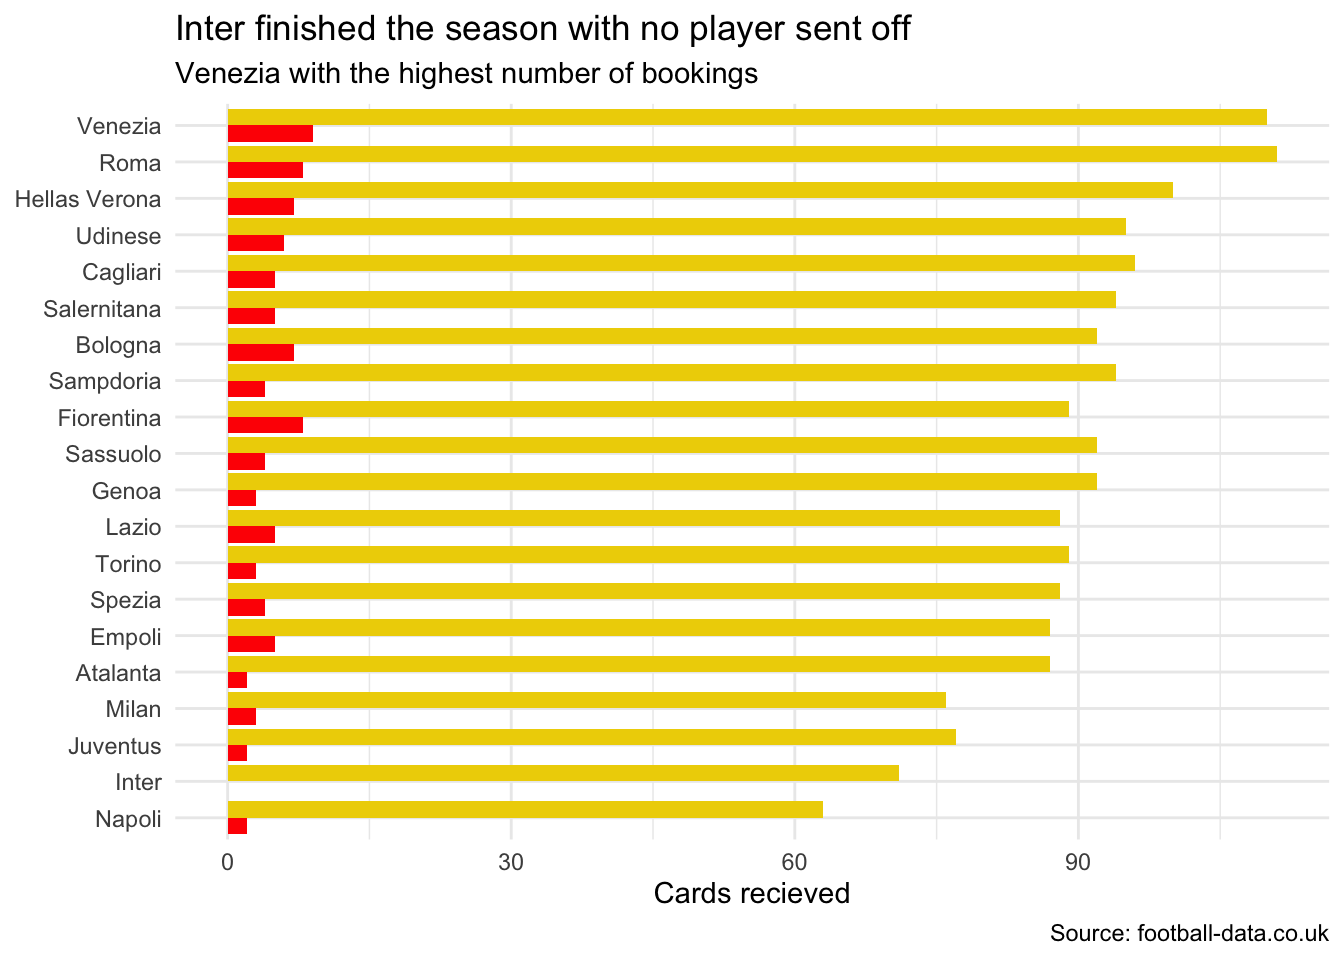
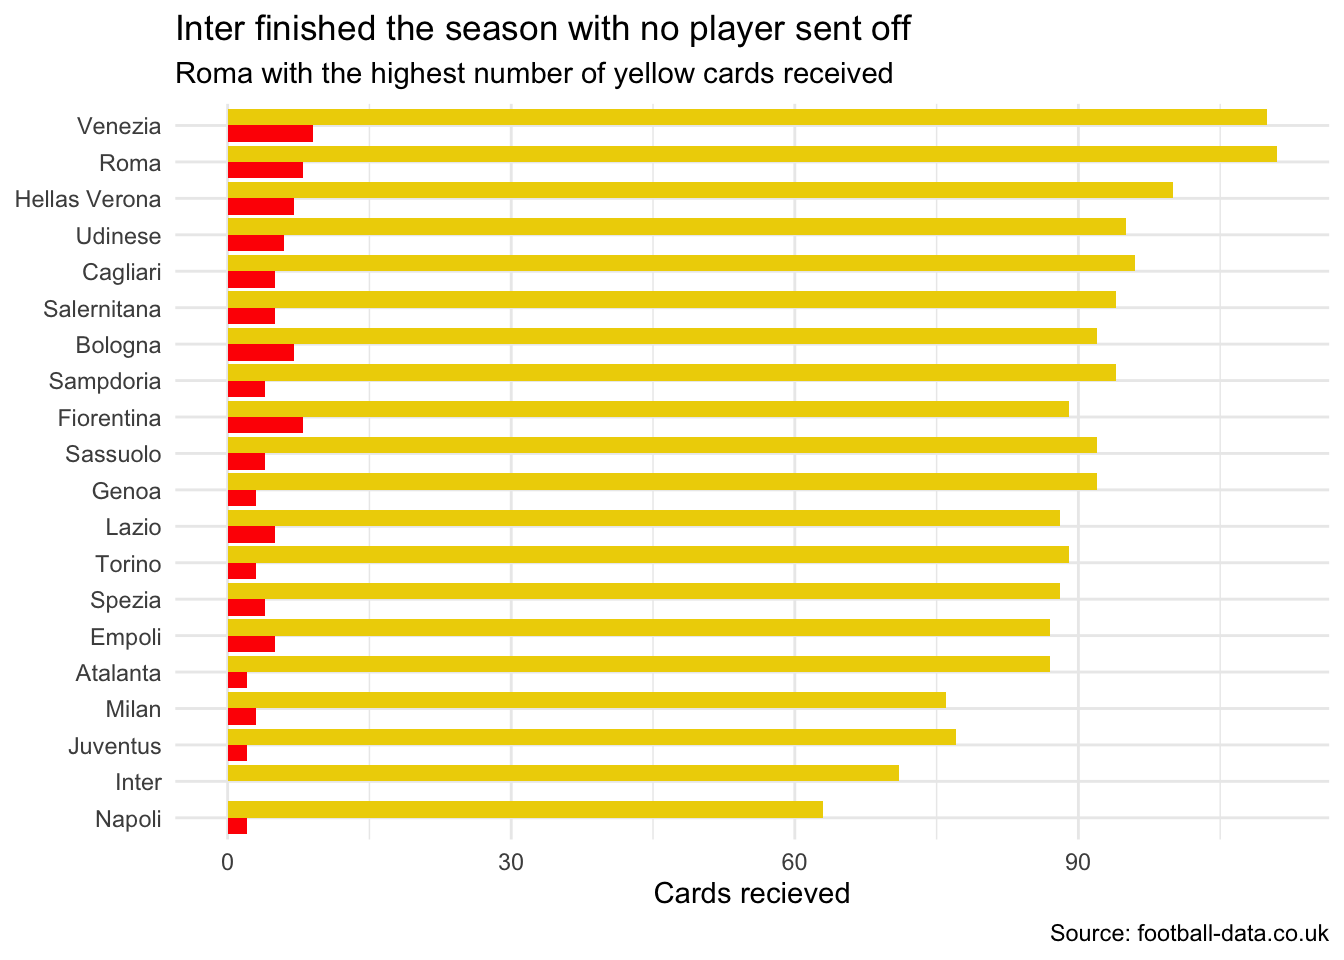
slight update to serie A 2021-22 post, removed "visualization 1,2,3..." from titles... updated last chart - roma (not venezia) highest number of yellow cards

Changed region(s): [[0.125, 0.0625, 0.6562, 0.0938]]

diff --git a/content/en/posts/2024-04-17-serie-a-2021-22-a-data-visualization-case-study/index.en-gb.md b/content/en/posts/2024-04-17-serie-a-2021-22-a-data-visualization-case-study/index.en-gb.md
@@ -18,7 +18,7 @@ description: ~
 <link href="/rmarkdown-libs/plotly-htmlwidgets-css/plotly-htmlwidgets.css" rel="stylesheet" />
 <script src="/rmarkdown-libs/plotly-main/plotly-latest.min.js"></script>
 
-### Introduction
+## Introduction
 
 Serie A, Italy’s top football league, has captivated audiences for over a century. The 2021-2022 season, which saw AC Milan reclaim the championship title, was no exception. This report delves into that season’s data, wielding ggplot2, a powerful R package for data visualization, to unlock the stories embedded within the statistics. My aim, with this report isn’t to bombard you with facts and figures, but rather to showcase the transformative potential of data visualization. Through captivating graphs and charts, I hope to illuminate trends, highlight team performance, and ultimately, paint a vivid picture of the 2021-2022 Serie A season.
 
@@ -33,7 +33,7 @@ This report relies on data collected from the following sources::
 
 The data visualizations presented in this post are for **illustrative purposes** only. The underlying data sets were sourced from aforementioned publicly available repositories and have been modified for visual clarity and efficiency. These visualizations should not be interpreted as factual representations, recommendations, or definitive findings. The sole purpose of this post is to showcase data visualization techniques and tools.
 
-### Visualization 1 - Home Field Advantage
+## Home Field Advantage
 
 This section dives into the number of wins each team achieved while playing at their home stadium. As shown in the plot, Inter takes the lead with the most home victories (14), showcasing a dominant performance on their home turf. Following closely behind is Fiorentina, proving to be a strong contender at home. On the other hand, Cagliari, Genoa, Salernitana and Venezia seem to struggle more on their home field with only 3 wins, grabbing the fewest wins amongst all the teams.
 
@@ -53,7 +53,7 @@ ggplot(viz1, aes(y = reorder(HomeTeam, Home_Win), x = Home_Win)) +
 
 <img src="/en/posts/2024-04-17-serie-a-2021-22-a-data-visualization-case-study/index.en-gb_files/figure-html/visualizaiton_2-1.png" width="672" />
 
-### Visualization 2 - Comeback Kings: Teams Clawing Back from First-Half Deficits
+## Comeback Kings: Teams Clawing Back from First-Half Deficits
 
 This chart highlights the number of comeback victories for teams that trailed at halftime. It’s important to remember that only teams with at least one comeback win are showcased here. Teams that haven’t secured any come-from-behind wins this season are excluded from this view.
 
@@ -85,7 +85,7 @@ ggplot(viz2, aes(y = fct_reorder(comeback_winner, comeback_wins),
 
 <img src="/en/posts/2024-04-17-serie-a-2021-22-a-data-visualization-case-study/index.en-gb_files/figure-html/visualization_3-1.png" width="672" />
 
-### Vizualization 3 - Squad Age Distribution: 2021-22 Season
+## Squad Age Distribution: 2021-22 Season
 
 This section dives into the average age of Serie A squads for the 2021-22 season. The data, visualized in a table below (generated using the `kable` function from the `knitr` package), reveals interesting trends regarding team experience.
 
@@ -140,7 +140,7 @@ ggplot(data2, aes(y = fct_reorder(Squad, Age), x = Age)) +
 
 <img src="/en/posts/2024-04-17-serie-a-2021-22-a-data-visualization-case-study/index.en-gb_files/figure-html/visualization_4-1.png" width="672" />
 
-### Viualization 4 - Examining Match Results by Time: A Look with ggplot2
+## Examining Match Results by Time: A Look with ggplot2
 
 This section utilizes a scatter plot, generated using the `ggplot2` package in RStudio, to explore the relationship between match day time and the outcome (win, loss, or draw sorted by home/away team). Each data point represents a single match, with its position on the x-axis indicating the time of day and the y-axis signifying the win/loss/draw result.
 
@@ -173,9 +173,9 @@ ggplotly(ggplot(viz11, aes(x = Time, y = Count, color = Result)) +
 ```
 
 <div class="plotly html-widget html-fill-item" id="htmlwidget-1" style="width:672px;height:480px;"></div>
-<script type="application/json" data-for="htmlwidget-1">{"x":{"data":[{"x":[41400,48600,50400,55800,57600,58500,61200,63000,63900,64800,69300,71100,72000],"y":[13,2,29,3,0,1,22,11,1,1,0,49,2],"text":["Time: 11:30:00<br />Count: 13<br />Result: Away Team Win","Time: 13:30:00<br />Count:  2<br />Result: Away Team Win","Time: 14:00:00<br />Count: 29<br />Result: Away Team Win","Time: 15:30:00<br />Count:  3<br />Result: Away Team Win","Time: 16:00:00<br />Count:  0<br />Result: Away Team Win","Time: 16:15:00<br />Count:  1<br />Result: Away Team Win","Time: 17:00:00<br />Count: 22<br />Result: Away Team Win","Time: 17:30:00<br />Count: 11<br />Result: Away Team Win","Time: 17:45:00<br />Count:  1<br />Result: Away Team Win","Time: 18:00:00<br />Count:  1<br />Result: Away Team Win","Time: 19:15:00<br />Count:  0<br />Result: Away Team Win","Time: 19:45:00<br />Count: 49<br />Result: Away Team Win","Time: 20:00:00<br />Count:  2<br />Result: Away Team Win"],"type":"scatter","mode":"markers","marker":{"autocolorscale":false,"color":"rgba(228,26,28,1)","opacity":1,"size":5.6692913385826778,"symbol":"circle","line":{"width":1.8897637795275593,"color":"rgba(228,26,28,1)"}},"hoveron":"points","name":"Away Team Win","legendgroup":"Away Team Win","showlegend":true,"xaxis":"x","yaxis":"y","hoverinfo":"text","frame":null},{"x":[41400,48600,50400,55800,57600,58500,61200,63000,63900,64800,69300,71100,72000],"y":[7,1,23,1,0,0,14,13,1,2,1,33,2],"text":["Time: 11:30:00<br />Count:  7<br />Result: Draw","Time: 13:30:00<br />Count:  1<br />Result: Draw","Time: 14:00:00<br />Count: 23<br />Result: Draw","Time: 15:30:00<br />Count:  1<br />Result: Draw","Time: 16:00:00<br />Count:  0<br />Result: Draw","Time: 16:15:00<br />Count:  0<br />Result: Draw","Time: 17:00:00<br />Count: 14<br />Result: Draw","Time: 17:30:00<br />Count: 13<br />Result: Draw","Time: 17:45:00<br />Count:  1<br />Result: Draw","Time: 18:00:00<br />Count:  2<br />Result: Draw","Time: 19:15:00<br />Count:  1<br />Result: Draw","Time: 19:45:00<br />Count: 33<br />Result: Draw","Time: 20:00:00<br />Count:  2<br />Result: Draw"],"type":"scatter","mode":"markers","marker":{"autocolorscale":false,"color":"rgba(55,126,184,1)","opacity":1,"size":5.6692913385826778,"symbol":"circle","line":{"width":1.8897637795275593,"color":"rgba(55,126,184,1)"}},"hoveron":"points","name":"Draw","legendgroup":"Draw","showlegend":true,"xaxis":"x","yaxis":"y","hoverinfo":"text","frame":null},{"x":[41400,48600,50400,55800,57600,58500,61200,63000,63900,64800,69300,71100,72000],"y":[13,1,36,2,1,0,31,16,2,0,1,41,4],"text":["Time: 11:30:00<br />Count: 13<br />Result: Home Team Win","Time: 13:30:00<br />Count:  1<br />Result: Home Team Win","Time: 14:00:00<br />Count: 36<br />Result: Home Team Win","Time: 15:30:00<br />Count:  2<br />Result: Home Team Win","Time: 16:00:00<br />Count:  1<br />Result: Home Team Win","Time: 16:15:00<br />Count:  0<br />Result: Home Team Win","Time: 17:00:00<br />Count: 31<br />Result: Home Team Win","Time: 17:30:00<br />Count: 16<br />Result: Home Team Win","Time: 17:45:00<br />Count:  2<br />Result: Home Team Win","Time: 18:00:00<br />Count:  0<br />Result: Home Team Win","Time: 19:15:00<br />Count:  1<br />Result: Home Team Win","Time: 19:45:00<br />Count: 41<br />Result: Home Team Win","Time: 20:00:00<br />Count:  4<br />Result: Home Team Win"],"type":"scatter","mode":"markers","marker":{"autocolorscale":false,"color":"rgba(77,175,74,1)","opacity":1,"size":5.6692913385826778,"symbol":"circle","line":{"width":1.8897637795275593,"color":"rgba(77,175,74,1)"}},"hoveron":"points","name":"Home Team Win","legendgroup":"Home Team Win","showlegend":true,"xaxis":"x","yaxis":"y","hoverinfo":"text","frame":null}],"layout":{"margin":{"t":43.762557077625573,"r":7.3059360730593621,"b":40.182648401826498,"l":37.260273972602747},"font":{"color":"rgba(0,0,0,1)","family":"","size":14.611872146118724},"title":{"text":"Time of match does not have any influence on the result","font":{"color":"rgba(0,0,0,1)","family":"","size":17.534246575342465},"x":0,"xref":"paper"},"xaxis":{"domain":[0,1],"automargin":true,"type":"linear","autorange":false,"range":[39870,73530],"tickmode":"array","ticktext":["12:00:00","14:00:00","16:00:00","18:00:00","20:00:00"],"tickvals":[43200,50400,57600,64800,72000],"categoryorder":"array","categoryarray":["12:00:00","14:00:00","16:00:00","18:00:00","20:00:00"],"nticks":null,"ticks":"","tickcolor":null,"ticklen":3.6529680365296811,"tickwidth":0,"showticklabels":true,"tickfont":{"color":"rgba(77,77,77,1)","family":"","size":11.68949771689498},"tickangle":-0,"showline":false,"linecolor":null,"linewidth":0,"showgrid":true,"gridcolor":"rgba(235,235,235,1)","gridwidth":0.66417600664176002,"zeroline":false,"anchor":"y","title":{"text":"Time","font":{"color":"rgba(0,0,0,1)","family":"","size":14.611872146118724}},"hoverformat":".2f"},"yaxis":{"domain":[0,1],"automargin":true,"type":"linear","autorange":false,"range":[-2.4500000000000002,51.450000000000003],"tickmode":"array","ticktext":["0","10","20","30","40","50"],"tickvals":[0,10,20,30.000000000000004,40,50],"categoryorder":"array","categoryarray":["0","10","20","30","40","50"],"nticks":null,"ticks":"","tickcolor":null,"ticklen":3.6529680365296811,"tickwidth":0,"showticklabels":true,"tickfont":{"color":"rgba(77,77,77,1)","family":"","size":11.68949771689498},"tickangle":-0,"showline":false,"linecolor":null,"linewidth":0,"showgrid":true,"gridcolor":"rgba(235,235,235,1)","gridwidth":0.66417600664176002,"zeroline":false,"anchor":"x","title":{"text":"Count","font":{"color":"rgba(0,0,0,1)","family":"","size":14.611872146118724}},"hoverformat":".2f"},"shapes":[{"type":"rect","fillcolor":null,"line":{"color":null,"width":0,"linetype":[]},"yref":"paper","xref":"paper","x0":0,"x1":1,"y0":0,"y1":1}],"showlegend":true,"legend":{"bgcolor":null,"bordercolor":null,"borderwidth":0,"font":{"color":"rgba(0,0,0,1)","family":"","size":11.68949771689498},"title":{"text":"Result","font":{"color":"rgba(0,0,0,1)","family":"","size":14.611872146118724}}},"hovermode":"closest","barmode":"relative"},"config":{"doubleClick":"reset","modeBarButtonsToAdd":["hoverclosest","hovercompare"],"showSendToCloud":false},"source":"A","attrs":{"1b133ddb84f3":{"x":{},"y":{},"colour":{},"type":"scatter"}},"cur_data":"1b133ddb84f3","visdat":{"1b133ddb84f3":["function (y) ","x"]},"highlight":{"on":"plotly_click","persistent":false,"dynamic":false,"selectize":false,"opacityDim":0.20000000000000001,"selected":{"opacity":1},"debounce":0},"shinyEvents":["plotly_hover","plotly_click","plotly_selected","plotly_relayout","plotly_brushed","plotly_brushing","plotly_clickannotation","plotly_doubleclick","plotly_deselect","plotly_afterplot","plotly_sunburstclick"],"base_url":"https://plot.ly"},"evals":[],"jsHooks":[]}</script>
+<script type="application/json" data-for="htmlwidget-1">{"x":{"data":[{"x":[41400,48600,50400,55800,57600,58500,61200,63000,63900,64800,69300,71100,72000],"y":[13,2,29,3,0,1,22,11,1,1,0,49,2],"text":["Time: 11:30:00<br />Count: 13<br />Result: Away Team Win","Time: 13:30:00<br />Count:  2<br />Result: Away Team Win","Time: 14:00:00<br />Count: 29<br />Result: Away Team Win","Time: 15:30:00<br />Count:  3<br />Result: Away Team Win","Time: 16:00:00<br />Count:  0<br />Result: Away Team Win","Time: 16:15:00<br />Count:  1<br />Result: Away Team Win","Time: 17:00:00<br />Count: 22<br />Result: Away Team Win","Time: 17:30:00<br />Count: 11<br />Result: Away Team Win","Time: 17:45:00<br />Count:  1<br />Result: Away Team Win","Time: 18:00:00<br />Count:  1<br />Result: Away Team Win","Time: 19:15:00<br />Count:  0<br />Result: Away Team Win","Time: 19:45:00<br />Count: 49<br />Result: Away Team Win","Time: 20:00:00<br />Count:  2<br />Result: Away Team Win"],"type":"scatter","mode":"markers","marker":{"autocolorscale":false,"color":"rgba(228,26,28,1)","opacity":1,"size":5.6692913385826778,"symbol":"circle","line":{"width":1.8897637795275593,"color":"rgba(228,26,28,1)"}},"hoveron":"points","name":"Away Team Win","legendgroup":"Away Team Win","showlegend":true,"xaxis":"x","yaxis":"y","hoverinfo":"text","frame":null},{"x":[41400,48600,50400,55800,57600,58500,61200,63000,63900,64800,69300,71100,72000],"y":[7,1,23,1,0,0,14,13,1,2,1,33,2],"text":["Time: 11:30:00<br />Count:  7<br />Result: Draw","Time: 13:30:00<br />Count:  1<br />Result: Draw","Time: 14:00:00<br />Count: 23<br />Result: Draw","Time: 15:30:00<br />Count:  1<br />Result: Draw","Time: 16:00:00<br />Count:  0<br />Result: Draw","Time: 16:15:00<br />Count:  0<br />Result: Draw","Time: 17:00:00<br />Count: 14<br />Result: Draw","Time: 17:30:00<br />Count: 13<br />Result: Draw","Time: 17:45:00<br />Count:  1<br />Result: Draw","Time: 18:00:00<br />Count:  2<br />Result: Draw","Time: 19:15:00<br />Count:  1<br />Result: Draw","Time: 19:45:00<br />Count: 33<br />Result: Draw","Time: 20:00:00<br />Count:  2<br />Result: Draw"],"type":"scatter","mode":"markers","marker":{"autocolorscale":false,"color":"rgba(55,126,184,1)","opacity":1,"size":5.6692913385826778,"symbol":"circle","line":{"width":1.8897637795275593,"color":"rgba(55,126,184,1)"}},"hoveron":"points","name":"Draw","legendgroup":"Draw","showlegend":true,"xaxis":"x","yaxis":"y","hoverinfo":"text","frame":null},{"x":[41400,48600,50400,55800,57600,58500,61200,63000,63900,64800,69300,71100,72000],"y":[13,1,36,2,1,0,31,16,2,0,1,41,4],"text":["Time: 11:30:00<br />Count: 13<br />Result: Home Team Win","Time: 13:30:00<br />Count:  1<br />Result: Home Team Win","Time: 14:00:00<br />Count: 36<br />Result: Home Team Win","Time: 15:30:00<br />Count:  2<br />Result: Home Team Win","Time: 16:00:00<br />Count:  1<br />Result: Home Team Win","Time: 16:15:00<br />Count:  0<br />Result: Home Team Win","Time: 17:00:00<br />Count: 31<br />Result: Home Team Win","Time: 17:30:00<br />Count: 16<br />Result: Home Team Win","Time: 17:45:00<br />Count:  2<br />Result: Home Team Win","Time: 18:00:00<br />Count:  0<br />Result: Home Team Win","Time: 19:15:00<br />Count:  1<br />Result: Home Team Win","Time: 19:45:00<br />Count: 41<br />Result: Home Team Win","Time: 20:00:00<br />Count:  4<br />Result: Home Team Win"],"type":"scatter","mode":"markers","marker":{"autocolorscale":false,"color":"rgba(77,175,74,1)","opacity":1,"size":5.6692913385826778,"symbol":"circle","line":{"width":1.8897637795275593,"color":"rgba(77,175,74,1)"}},"hoveron":"points","name":"Home Team Win","legendgroup":"Home Team Win","showlegend":true,"xaxis":"x","yaxis":"y","hoverinfo":"text","frame":null}],"layout":{"margin":{"t":43.762557077625573,"r":7.3059360730593621,"b":40.182648401826498,"l":37.260273972602747},"font":{"color":"rgba(0,0,0,1)","family":"","size":14.611872146118724},"title":{"text":"Time of match does not have any influence on the result","font":{"color":"rgba(0,0,0,1)","family":"","size":17.534246575342465},"x":0,"xref":"paper"},"xaxis":{"domain":[0,1],"automargin":true,"type":"linear","autorange":false,"range":[39870,73530],"tickmode":"array","ticktext":["12:00:00","14:00:00","16:00:00","18:00:00","20:00:00"],"tickvals":[43200,50400,57600,64800,72000],"categoryorder":"array","categoryarray":["12:00:00","14:00:00","16:00:00","18:00:00","20:00:00"],"nticks":null,"ticks":"","tickcolor":null,"ticklen":3.6529680365296811,"tickwidth":0,"showticklabels":true,"tickfont":{"color":"rgba(77,77,77,1)","family":"","size":11.68949771689498},"tickangle":-0,"showline":false,"linecolor":null,"linewidth":0,"showgrid":true,"gridcolor":"rgba(235,235,235,1)","gridwidth":0.66417600664176002,"zeroline":false,"anchor":"y","title":{"text":"Time","font":{"color":"rgba(0,0,0,1)","family":"","size":14.611872146118724}},"hoverformat":".2f"},"yaxis":{"domain":[0,1],"automargin":true,"type":"linear","autorange":false,"range":[-2.4500000000000002,51.450000000000003],"tickmode":"array","ticktext":["0","10","20","30","40","50"],"tickvals":[0,10,20,30.000000000000004,40,50],"categoryorder":"array","categoryarray":["0","10","20","30","40","50"],"nticks":null,"ticks":"","tickcolor":null,"ticklen":3.6529680365296811,"tickwidth":0,"showticklabels":true,"tickfont":{"color":"rgba(77,77,77,1)","family":"","size":11.68949771689498},"tickangle":-0,"showline":false,"linecolor":null,"linewidth":0,"showgrid":true,"gridcolor":"rgba(235,235,235,1)","gridwidth":0.66417600664176002,"zeroline":false,"anchor":"x","title":{"text":"Count","font":{"color":"rgba(0,0,0,1)","family":"","size":14.611872146118724}},"hoverformat":".2f"},"shapes":[{"type":"rect","fillcolor":null,"line":{"color":null,"width":0,"linetype":[]},"yref":"paper","xref":"paper","x0":0,"x1":1,"y0":0,"y1":1}],"showlegend":true,"legend":{"bgcolor":null,"bordercolor":null,"borderwidth":0,"font":{"color":"rgba(0,0,0,1)","family":"","size":11.68949771689498},"title":{"text":"Result","font":{"color":"rgba(0,0,0,1)","family":"","size":14.611872146118724}}},"hovermode":"closest","barmode":"relative"},"config":{"doubleClick":"reset","modeBarButtonsToAdd":["hoverclosest","hovercompare"],"showSendToCloud":false},"source":"A","attrs":{"c94494f880e":{"x":{},"y":{},"colour":{},"type":"scatter"}},"cur_data":"c94494f880e","visdat":{"c94494f880e":["function (y) ","x"]},"highlight":{"on":"plotly_click","persistent":false,"dynamic":false,"selectize":false,"opacityDim":0.20000000000000001,"selected":{"opacity":1},"debounce":0},"shinyEvents":["plotly_hover","plotly_click","plotly_selected","plotly_relayout","plotly_brushed","plotly_brushing","plotly_clickannotation","plotly_doubleclick","plotly_deselect","plotly_afterplot","plotly_sunburstclick"],"base_url":"https://plot.ly"},"evals":[],"jsHooks":[]}</script>
 
-### Viualization 5 - Ball Possession Breakdown: A Bar Chart Analysis
+## Ball Possession Breakdown: A Bar Chart Analysis
 
 The following bar chart provides a clear illustration of average ball possession percentages across the league, offering a key metric for evaluating team strategies. Napoli stands out as the possession kingpin, averaging an impressive figure at around 60%. This translates to a team that thrives on controlling the flow of the game, likely employing an attacking style that prioritizes ball retention. Conversely, Salernitana resides at the opposite end of the spectrum, averaging a mere 41% possession. This suggests a more defensive approach, where conceding possession and strategically countering attacks could be their weapon of choice. The remaining teams occupy positions between these two extremes, highlighting the diverse tactical philosophies and the varying strengths each team possesses when it comes to controlling the ball. By delving into this distribution, we can glean valuable insights into the playing styles of each team and their preferred tactical approaches on the pitch.
 
@@ -191,7 +191,7 @@ ggplot(data2, aes(y = as.factor(fct_reorder(Squad, Poss)), x = Poss))+
 
 <img src="/en/posts/2024-04-17-serie-a-2021-22-a-data-visualization-case-study/index.en-gb_files/figure-html/visualization_5-1.png" width="672" />
 
-### Visualization 6 - Unveiling Spatial Dominance: A Lollipop Chart Analysis of Ball Touches
+## Unveiling Spatial Dominance: A Lollipop Chart Analysis of Ball Touches
 
 This section delves into a lollipop chart visualization that offers a nuanced perspective on Serie A teams’ ball distribution across the three critical zones of the pitch: the defensive third (proximity to their own goal), the midfield third, and the attacking third (proximity to the opponent’s goal). Each data point on the chart represents a team, with the lollipop stem acting as a quantitative measure of the team’s touches within a specific zone. The lollipop head then takes center stage, highlighting the team’s total touches across all zones.
 
@@ -226,7 +226,7 @@ ggplot(data3, aes(y = fct_reorder(Squad,touches), x = touches))+
 
 <img src="/en/posts/2024-04-17-serie-a-2021-22-a-data-visualization-case-study/index.en-gb_files/figure-html/visualization_7-1.png" width="672" />
 
-### Visualization 7 - Another Way to Visualize Ball Touches: A Scatterplot Matrix
+## Another Way to Visualize Ball Touches: A Scatterplot Matrix
 
 This scatterplot matrix offers yet another perspective on the intricate dance of ball distribution across Serie A teams. It serves as a complementary visualization to the previously explored lollipop chart.
 
@@ -250,7 +250,7 @@ ggplot(data3, aes(x = area_pitch, y = touches, shape = area_pitch))+
 
 <img src="/en/posts/2024-04-17-serie-a-2021-22-a-data-visualization-case-study/index.en-gb_files/figure-html/visualization_8-1.png" width="672" />
 
-### Visualization 8 - Unveiling Disciplinary Trends: A Look at Red and Yellow Cards
+## Unveiling Disciplinary Trends: A Look at Red and Yellow Cards
 
 This section utilizes a bar chart to provide a comprehensive breakdown of disciplinary actions in Serie A for the recently concluded season. The data reveals Venezia as the team with the highest number of dismissals (red cards). Furthermore, Venezia ranks second only to Roma in terms of cautions received (yellow cards). In stark contrast, Inter stands out for their exemplary discipline, having accrued zero red cards throughout the season. This visualization offers a valuable tool for analyzing disciplinary trends across Serie A. By contrasting teams like Venezia, who adopted a more aggressive approach reflected in their red card count, with Inter Milan’s success built on a controlled style, this chart provides insights into the various strategies employed to navigate the competitive intensity of Serie A.
 
@@ -273,7 +273,7 @@ ggplot(viz_cards, aes(y = fct_reorder(Squad, number_of_cards),
   labs(x = "Cards recieved",
        y = NULL,
        title = "Inter finished the season with no player sent off",
-       subtitle = "Venezia with the highest number of bookings",
+       subtitle = "Roma with the highest number of yellow cards received",
        caption = "Source: football-data.co.uk"
        ) +
   scale_fill_manual(values = c("Red Cards" = "red", "Yellow Cards" = "#EED202")) +
